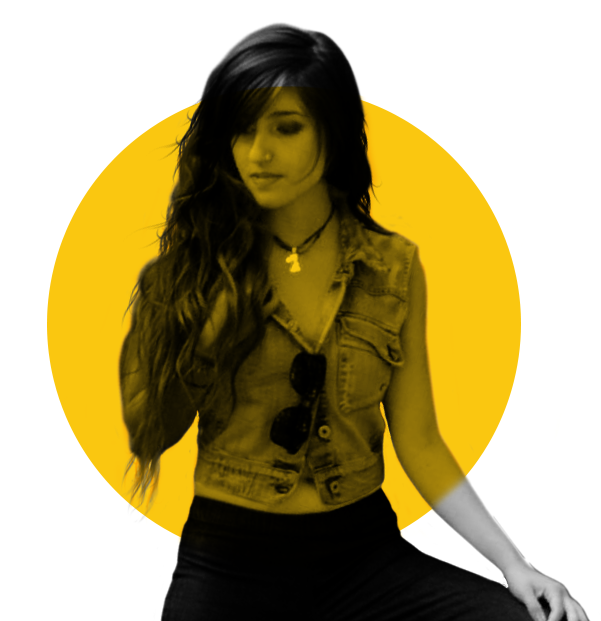
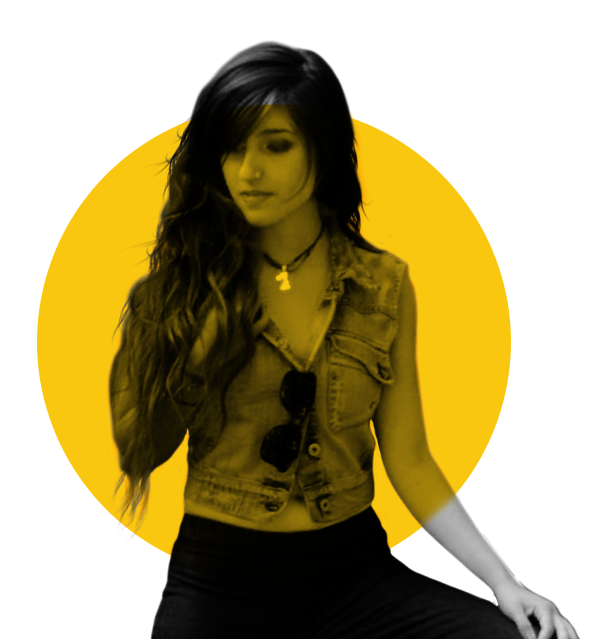
cambios-miercoles

diff --git a/macarena.html b/macarena.html
@@ -11,6 +11,8 @@
     <title>Maca Díaz</title>
 </head>
 <body>
+  <!--NAV-->
+
     <div class="nav-prueba">
         <nav class="navbar" id="navbar">
             <img src="img/blackpoint_logo.svg">
@@ -27,7 +29,8 @@
             </ul>
         </nav>
     </div>
-    
+
+<!--PRIMER RECUADRO-->    
     <div id="primer-contenedor"> 
 
       <div class="costadoizq-foto">
@@ -35,30 +38,96 @@
           <img src="img/maca.png" alt="">
         </div>  
         
-        <div class="boton-cv">
-          <a download="cv" href="img/CV - Macarena Díaz - Comp.pdf">Descargar cv</a>
-          <a download="cv" href="img/CV - Macarena Díaz - Comp.pdf">Descargar cv</a>
+        <div class="primeros-botones">
+          <div class="boton-general boton-cv">
+            <a download="cv" href="img/CV - Macarena Díaz - Comp.pdf">Descargar CV</a>
+          </div>
+          
+          <div class="boton-general boton-wa">
+            <a href="https://wa.me/+56986208830">WhatsApp</a>
+          </div> 
         </div>
 
       </div>
+
       <div class="foto-principal-maca">
-        <img src="img/fotoperfil2.png" id="fotoperfil">
+        <img src="img/fotoperfil02.png" id="fotoperfil">
       </div>
 
     </div>
 
+<!--SEGUNDO RECUADRO--> 
 
-        
+  <div class="segundo-contenedor">
 
+    <div class="foto-perfil-segundocontenedor">
+        <img src="img/fotoperfil-segcontenedor.png" alt="">
+    </div> 
 
-&nbsp;
+    <div class="contenedorsaludo-texto">
+        <div class="saludo">
+          <img src="img/hola.png" alt="">
+        </div>
+        <div class="texto">
+          <p>Soy Maca, publicista de profesión y con mención en gestión creativa. Me desenvuelvo en el área creativa de la publicidad, desarrollando así branding, mershandasing y packaging, entre otros. Me gusta el mundo de la creación y el diseño. Dentro de mis pasatiempos está la fotografía y las manualidades, últimamente manualidades enfocadas en la creación de figuritas de fieltro y vellón.</p>
+        </div>
+    </div>  
+
+  </div>     
+
+<!--TERCER RECUADRO-->
+
+<div class="tercer-contenedor">
+  <div id="titulo-mis-trabajos">
+    <img src="img/mistrabajos.png" alt="">
+  </div>
+</div>
+
+<div id="caja-mis-trabajos">
+
+  <div class="boxzoom">
+      <img src="img/1fila 1-01.jpg" alt="schlagfix">
+  </div>
+  <div class="boxzoom">
+      <img src="img/1fila 2-01.jpg" alt="schlagfix">
+  </div>
+  <div class="boxzoom">
+      <img src="img/1fila 3-01.jpg" alt="schlagfix">
+  </div>
+  <div class="boxzoom">
+      <img src="img/02fila 1-01.jpg" alt="packaging">
+  </div>
+  <div class="boxzoom">
+      <img src="img/02fila 2-01.jpg" alt="packaging">
+  </div>
+  <div class="boxzoom">
+      <img src="img/02fila 3-01.jpg" alt="packaging">
+  </div>
+  <div class="boxzoom">
+      <img src="img/3fila 1.jpg" alt="papeleria">
+  </div>
+  <div class="boxzoom">
+      <img src="img/3fila 2.jpg" alt="papeleria">
+  </div>
+  <div class="boxzoom">
+      <img src="img/3fila 3.jpg" alt="papeleria">
+  </div>
+
+</div>
+
+<div class="caja-boton-trabajos">
+  <div class="boton-trabajos">
+    <a href="http://macarenadiaz.portfoliobox.net/">Ver más</a>
+  </div>
+</div> 
+
 
 <!-- Button trigger modal -->
 <!-- <button type="button" class="btn btn-primary" data-bs-toggle="modal" data-bs-target="#staticBackdrop">
     Launch static backdrop modal
   </button> -->
   
-  <!-- Modal -->
+  <!-- Modal 
   <div class="modal fade" id="staticBackdrop" data-bs-backdrop="static" data-bs-keyboard="false" tabindex="-1" aria-labelledby="staticBackdropLabel" aria-hidden="true">
     <div class="modal-dialog">
       <div class="modal-content">
@@ -93,38 +162,17 @@
     </div>
   </div>
 
+GRILLA DE IMAGENES
 
-  
-<div id="caja-mis-trabajos">
-    <div class="box" data-bs-toggle="modal" data-bs-target="#staticBackdrop">
-        <img src="img/1fila 1-01.jpg" alt="pinkcielo">
-    </div>
-    <div class="box" data-bs-toggle="modal" data-bs-target="#staticBackdrop2">
-        <img src="img/1fila 2-01.jpg" alt="pinkpajaro">
-    </div>
-    <div class="box">
-        <img src="img/1fila 3-01.jpg" alt="pinknubes">
-    </div>
-    <div class="box">
-        <img src="img/2fila 1-01.jpg" alt="redjapon">
-    </div>
-    <div class="box">
-        <img src="img/2fila 3-01.jpg" alt="redperrito">
-    </div>
-    <div class="box">
-        <img src="img/2fila 2-01.jpg" alt="redflores">
-    </div>
-    <div class="box">
-        <img src="images/ventana amar.jpg" alt="yellowventana">
-    </div>
-    <div class="box">
-        <img src="images/mural.jpg" alt="yellowmural">
-    </div>
-    <div class="box">
-        <img src="images/limon.jpg" alt="yellowlimon">
-    </div>
+  <div id="caja-mis-trabajos">
+  <div class="box" data-bs-toggle="modal" data-bs-target="#staticBackdrop">
+      <img src="img/1fila 1-01.jpg" alt="pinkcielo">
+  </div>
+  <div class="box" data-bs-toggle="modal" data-bs-target="#staticBackdrop2">
+      <img src="img/1fila 2-01.jpg" alt="pinkpajaro">
+  </div>
 
-</div>
+  -->
 
 
 </body>

diff --git a/css/stylemaca.css b/css/stylemaca.css
@@ -1,67 +1,126 @@
-:root{
-    --color-primario: #202020;
-    --color-secundario:#FAC710;
-    }
+@import url('https://fonts.googleapis.com/css2?family=Lato:ital,wght@0,100;0,300;0,400;0,700;0,900;1,100;1,300;1,400;1,700&display=swap');
+
+:root {
+    --yellow: #FAC710;
+    --white: whitesmoke;
+    --grey: #202020;
+  }
+
 *{
     padding: 0;
     margin: 0;
 }
-body{
-    background-color: var(--color-primario);
+.nav-prueba{
+    background-color: var(--grey);
 }
+
+/* PRIMER RECUADRO */
 #primer-contenedor{
     display: flex;
     align-items: center;
+    justify-content: space-between;
+    background-color: var(--grey);
 }
-
 .costadoizq-foto{
     display: flex;
     flex-direction: column;
     align-items: center;
 }
-
 .nombre-maca{
     width: 70%;
+    margin-left: 80px;
 }
 .foto-principal-maca{
-    width: 30%;
-    
+    width: 600px;
+    margin-right: 50px;
+}
+.primeros-botones{
+    display: flex;
+    justify-content: space-between;
+    gap: 10px;
+}
+.boton-general{
+    font-family: 'Lato', sans-serif;
+    padding: 20px;
+    font-weight: 600;
+    font-size: 20px;
+    color: var(--grey);
+    border-radius: 50px;
+    margin: 15px;
+    font-size: 15px;
+    text-decoration: none;
+    text-align: center;
+    width: 200px;
+}
+.boton-general a{
+    color: var(--grey);
+    font-weight: 800;
+}
+.boton-cv{
+    background-color: var(--yellow);
+}
+.boton-wa{
+    background-color: var(--white);
 }
 
+/* SEGUNDO RECUADRO */
+.segundo-contenedor{
+    background-color: var(--yellow);
+    display: flex;
+    justify-content: space-between;
+    align-items: center;
+    padding: 70px;
+}
+.foto-perfil-segundocontenedor{
+    width: 50%;
+    margin-left: 20px;
+}
+.contenedorsaludo-texto{
+    display: flex;
+    flex-direction: column;
+    align-items: flex-start;
+    width: 100%;
+    margin-left: 15px;
+}
+p{
+    margin-left: 40px;
+    font-size: 20px;
+    text-align: justify;
+}
+.saludo{
+    width: 250px;
+}
 
+/* TERCER RECUADRO */
 
-
-
-
+.tercer-contenedor{
+    display: flex;
+    justify-content: center;
+    align-content: center;
+    background-color: var(--grey);
+    padding: 70px;
+}
 #caja-mis-trabajos{
     display: grid;
-    grid-template-columns: repeat(3, 180px);
+    grid-template-columns: repeat(3, 240px);
     /*grid-template-columns: 1fr 1fr 1fr;*/
     justify-content: center;
     align-items: center;
-    gap: 10px;
+    gap: 30px;
+    background-color: var(--grey);
+    padding-bottom: 10px;
 }
-.grisfondo{
-    color: var(--color-primario);
-    background-color: #FFFFFF;
-    width: 600px;
-}
-
-
-
-/*
-.nombre-maca .boton-maca{
+#titulo-mis-trabajos img{
     display: flex;
-    flex-direction: row;
-} */
+    justify-content: center;
+    align-items: center;
+    width: 400px;
+}  
 
-h1{
-    color: #FFFFFF;
-    font-family: 'Macbeth-Reguler';
-}
-
-.box{
-    height: 180px;
+.boxzoom{
+    height: 240px;
+    width: 240px;
+    transition: all 0.4s; 
 }
 
 img{
@@ -69,4 +128,50 @@ img{
     height: 100%;
     object-fit: cover;
 }
+.boxzoom img{
+    border-radius: 100%;
+    /* background: rgb(255, 146, 4);
+    mix-blend-mode: multiply; */
+}
+.boxzoom img:hover{
+    transform: scale(1.5);
+}
+
+.caja-boton-trabajos{
+    background-color: var(--grey);
+    display: flex;
+    justify-content: center;
+    align-items: center;
+    padding: 60px;
+}
+.boton-trabajos{
+    background-color: var(--yellow);
+    padding: 20px;
+    font-family: 'Lato', sans-serif;
+    font-weight: 600;
+    font-size: 20px;
+    border-radius: 50px;
+    margin: 15px;
+    font-size: 16px;
+    text-decoration: none;
+    text-align: center;
+    width: 150px;
+}
+.boton-trabajos a{
+    color: var(--grey);
+    font-weight: 800;
+}
+/*     
+.boxzoom img{
+    border-radius: 100%;
+    display: block;
+    mix-blend-mode: normal;
+    filter: grayscale(100%);
+}
+.boxzoom img:hover{
+    transform: scale(1.5);
+    display: block;
+    mix-blend-mode: normal;
+    filter: none;
+} */
     
